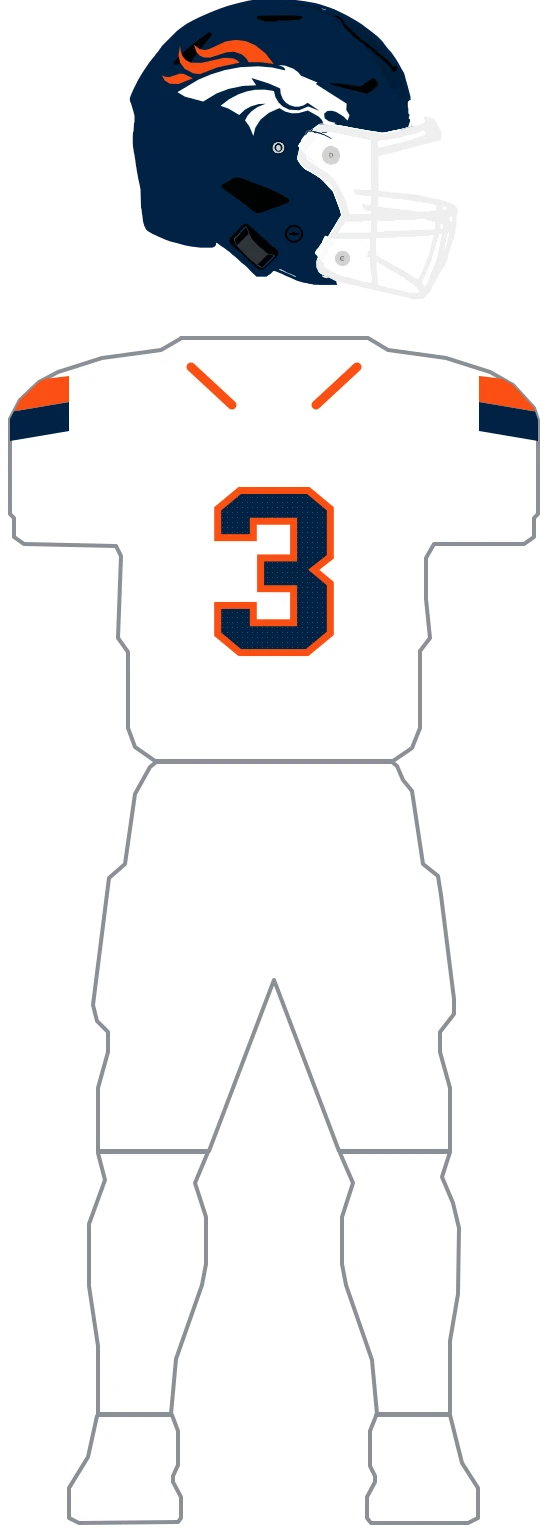
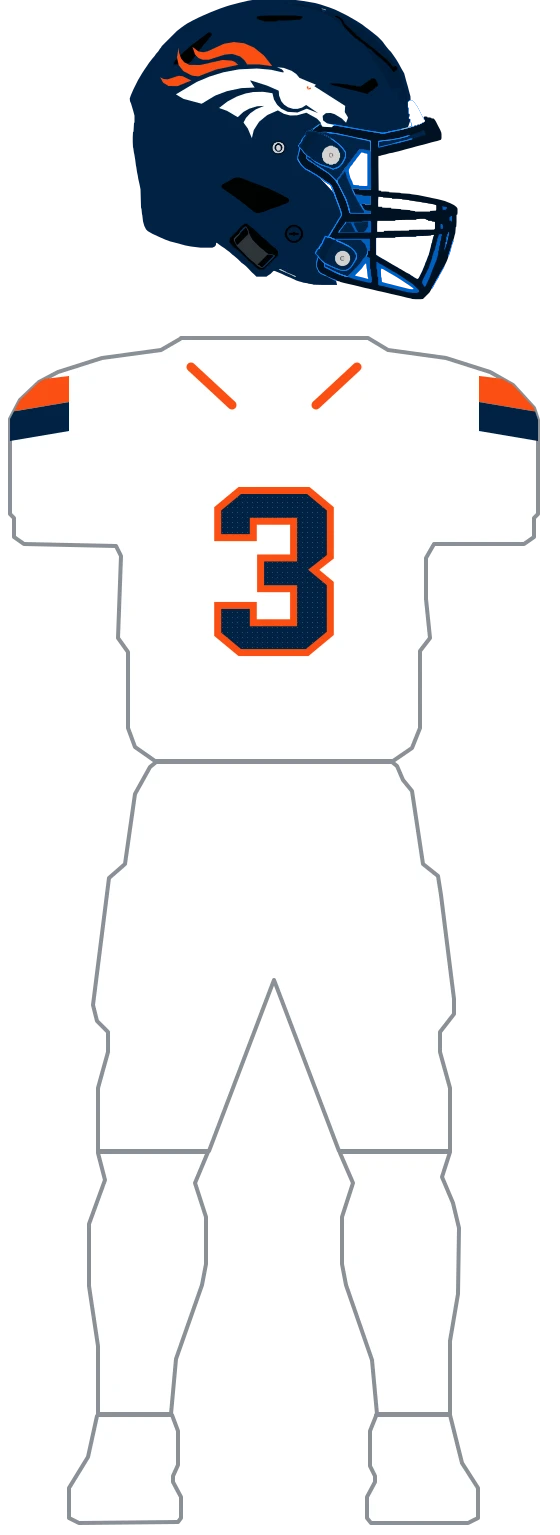
fix(uniforms): correct Broncos helmet details

Changed region(s): [[0.2732, 0.0, 0.8196, 0.2143]]

diff --git a/lib/uniforms/teams/broncos.ts b/lib/uniforms/teams/broncos.ts
@@ -24,9 +24,11 @@ export const BRONCOS_WHITE = '#FFFFFF';
 //   - The "D" is a keyline case: white traced as the union of white AND orange, with the orange "D"
 //     painted over it. The white bucking horse inside survives for free.
 export const BRONCOS_DECAL_MANE_PATH =
-  'M349.3,147.6 L371.2,150.2 L390.5,158.7 L410.3,174.5 L427.0,195.9 L400.4,192.5 L376.8,192.5 L371.6,184.3 L363.1,176.7 L347.2,171.5 L332.2,172.8 L300.0,183.1 L288.0,183.1 L279.4,179.6 L272.5,172.4 L267.4,157.4 L279.4,166.4 L289.3,168.1 L298.3,166.0 L330.4,151.0 L348.9,148.0 Z M239.5,158.7 L240.8,169.8 L244.6,180.5 L251.1,188.2 L260.9,193.3 L282.4,193.7 L327.9,183.5 L345.9,184.8 L352.3,187.3 L358.8,193.3 L314.6,202.7 L279.0,216.4 L266.1,214.7 L248.9,205.7 L239.9,193.7 L236.5,178.8 L239.5,159.1 Z M238.6,215.1 L247.6,216.0 L265.2,224.5 L236.9,236.0 L219.3,235.6 L208.6,228.8 L203.0,218.1 L209.4,221.5 L217.6,222.4 L238.2,215.5 Z M497.4,236.0 L499.5,236.9 L499.1,241.2 L502.9,238.6 L504.7,239.5 L503.4,242.0 L498.2,242.5 L496.1,238.6 L496.9,236.5 Z';
+  'M346.3,152.0 L368.2,154.6 L387.5,163.1 L407.3,178.9 L424.0,200.3 L397.4,196.9 L373.8,196.9 L368.6,188.7 L360.1,181.1 L344.2,175.9 L329.2,177.2 L297.0,187.5 L285.0,187.5 L276.4,184.0 L269.5,176.8 L264.4,161.8 L276.4,170.8 L286.3,172.5 L295.3,170.4 L327.4,155.4 L345.9,152.4 Z M236.5,163.1 L237.8,174.2 L241.6,184.9 L248.1,192.6 L257.9,197.7 L279.4,198.1 L324.9,187.9 L342.9,189.2 L349.3,191.7 L355.8,197.7 L311.6,207.1 L276.0,220.8 L263.1,219.1 L245.9,210.1 L236.9,198.1 L233.5,183.2 L236.5,163.5 Z M235.6,219.5 L244.6,220.4 L262.2,228.9 L233.9,240.4 L216.3,240.0 L205.6,233.2 L200.0,222.5 L206.4,225.9 L214.6,226.8 L235.2,219.9 Z';
+export const BRONCOS_DECAL_EYE_PATH =
+  'M494.4,240.4 L496.5,241.3 L496.1,245.6 L499.9,243.0 L501.7,243.9 L500.4,246.4 L495.2,246.9 L493.1,243.0 L493.9,240.9 Z';
 export const BRONCOS_DECAL_HORSE_PATH =
-  'M436.0,198.0 L449.7,199.3 L466.0,205.3 L475.5,212.1 L481.5,219.4 L514.5,233.1 L511.1,236.0 L572.9,275.4 L572.0,287.7 L578.5,298.4 L577.6,301.4 L574.6,309.1 L566.0,300.6 L551.9,292.0 L543.7,289.5 L534.3,289.9 L527.8,295.4 L528.7,304.4 L536.8,310.4 L550.6,313.8 L545.9,318.1 L529.6,317.2 L526.5,316.4 L523.5,308.3 L516.7,301.0 L495.2,289.0 L476.8,294.2 L463.0,294.6 L450.2,291.2 L438.2,284.3 L417.1,293.7 L400.8,307.0 L390.1,323.6 L386.2,339.9 L378.1,320.6 L369.5,308.7 L374.6,299.3 L382.8,290.3 L394.4,282.2 L410.7,275.4 L396.5,276.2 L381.1,280.9 L369.5,287.3 L357.9,298.0 L336.5,285.2 L320.6,279.6 L337.7,266.4 L356.2,256.6 L373.4,250.6 L389.2,247.6 L408.5,247.2 L427.4,250.1 L430.4,262.5 L436.9,273.2 L445.0,280.9 L457.9,287.3 L477.6,288.6 L496.1,280.9 L518.8,289.9 L494.8,273.6 L486.6,278.8 L477.6,281.3 L468.6,281.3 L458.7,278.3 L450.6,272.8 L445.0,266.0 L440.7,254.8 L439.9,245.0 L416.7,234.8 L384.1,224.5 L382.8,224.9 L391.8,238.6 L364.8,239.9 L336.5,245.9 L312.9,254.8 L285.8,271.1 L249.3,261.3 L234.3,252.3 L275.9,227.5 L301.3,216.8 L328.7,208.3 L360.5,202.3 L396.5,200.6 L424.4,203.1 L449.3,208.7 L449.7,206.1 L446.3,202.3 L436.4,198.0 Z';
+  'M433.0,202.4 L446.7,203.7 L463.0,209.7 L472.5,216.5 L478.5,223.8 L511.5,237.5 L508.1,240.4 L569.9,279.8 L569.0,292.1 L575.5,302.8 L574.6,305.8 L571.6,313.5 L563.0,305.0 L548.9,296.4 L540.7,293.9 L531.3,294.3 L524.8,299.8 L525.7,308.8 L533.8,314.8 L547.6,318.2 L542.9,322.5 L526.6,321.6 L523.5,320.8 L520.5,312.7 L513.7,305.4 L492.2,293.4 L473.8,298.6 L460.0,299.0 L447.2,295.6 L435.2,288.7 L414.1,298.1 L397.8,311.4 L387.1,328.0 L383.2,344.3 L375.1,325.0 L366.5,313.1 L371.6,303.7 L379.8,294.7 L391.4,286.6 L407.7,279.8 L393.5,280.6 L378.1,285.3 L366.5,291.7 L354.9,302.4 L333.5,289.6 L317.6,284.0 L334.7,270.8 L353.2,261.0 L370.4,255.0 L386.2,252.0 L405.5,251.6 L424.4,254.5 L427.4,266.9 L433.9,277.6 L442.0,285.3 L454.9,291.7 L474.6,293.0 L493.1,285.3 L515.8,294.3 L491.8,278.0 L483.6,283.2 L474.6,285.7 L465.6,285.7 L455.7,282.7 L447.6,277.2 L442.0,270.4 L437.7,259.2 L436.9,249.4 L413.7,239.2 L381.1,228.9 L379.8,229.3 L388.8,243.0 L361.8,244.3 L333.5,250.3 L309.9,259.2 L282.8,275.5 L246.3,265.7 L231.3,256.7 L272.9,231.9 L298.3,221.2 L325.7,212.7 L357.5,206.7 L393.5,205.0 L421.4,207.5 L446.3,213.1 L446.7,210.5 L443.3,206.7 L433.4,202.4 Z';
 export const BRONCOS_CRUSH_DECAL_KEYLINE_PATH =
   'M329.2,147.6 L427.1,149.5 L332.9,149.5 L326.7,155.1 L326.7,176.9 L328.6,148.3 Z M334.2,152.6 L433.9,153.2 L458.1,160.1 L483.5,180.6 L496.5,204.2 L495.9,219.1 L492.8,204.2 L487.2,212.3 L475.4,212.3 L474.2,205.4 L467.4,205.4 L446.3,188.0 L432.7,182.4 L428.4,168.2 L399.2,168.2 L397.4,175.0 L382.5,175.0 L381.3,179.3 L388.7,181.8 L372.6,183.7 L373.8,214.8 L368.3,212.9 L365.8,216.6 L373.2,231.5 L382.5,234.0 L378.2,240.9 L382.5,258.9 L382.5,294.3 L440.1,297.4 L454.4,288.1 L460.0,296.2 L466.8,296.2 L466.8,299.9 L458.7,301.8 L459.3,317.9 L474.8,311.1 L489.7,290.6 L486.0,282.5 L480.4,296.2 L481.6,258.3 L467.4,248.3 L466.1,229.0 L474.8,227.2 L468.0,232.8 L485.4,234.0 L483.5,238.4 L491.6,243.3 L491.6,278.8 L495.9,274.4 L497.7,237.7 L496.5,278.1 L475.4,312.3 L457.5,324.1 L438.9,327.9 L332.3,327.2 L331.1,298.0 L348.4,292.4 L348.4,191.8 L344.1,184.9 L331.7,181.8 L333.6,153.2 Z M405.4,178.1 L412.2,179.3 L404.2,186.2 L411.0,190.5 L420.3,179.3 L421.5,193.6 L436.4,204.2 L435.8,207.3 L424.0,207.3 L412.2,199.8 L409.1,209.2 L426.5,228.4 L424.0,237.7 L440.1,246.4 L442.6,261.4 L448.8,263.8 L462.4,256.4 L471.7,261.4 L471.1,268.8 L464.9,261.4 L455.6,263.2 L440.7,276.3 L433.9,292.4 L394.9,292.4 L394.9,278.8 L399.2,271.9 L394.9,267.0 L393.7,247.1 L388.1,242.1 L395.5,235.3 L397.4,244.6 L406.0,237.7 L406.7,230.3 L389.9,215.4 L394.9,209.8 L402.9,214.8 L404.8,208.5 L399.9,200.5 L386.2,202.3 L384.4,197.4 L393.7,193.6 L388.1,184.9 L398.0,187.4 L404.8,178.7 Z M500.2,206.1 L502.1,236.5 L495.9,230.3 L473.6,223.5 L481.6,221.0 L495.9,224.7 L502.1,218.5 L500.2,206.7 Z';
 export const BRONCOS_CRUSH_DECAL_D_PATH =

diff --git a/lib/uniforms/teams/broncos.parts.ts b/lib/uniforms/teams/broncos.parts.ts
@@ -23,6 +23,7 @@ import {
   BRONCOS_CRUSH_BAND_TOP_LEFT,
   BRONCOS_CRUSH_BAND_TOP_RIGHT,
   BRONCOS_CRUSH_DECAL_D_PATH,
+  BRONCOS_DECAL_EYE_PATH,
   BRONCOS_CRUSH_DECAL_KEYLINE_PATH,
   BRONCOS_DECAL_HORSE_PATH,
   BRONCOS_DECAL_MANE_PATH,
@@ -85,6 +86,7 @@ function horseDecal(): PartLayer[] {
   return [
     fill('broncos-decal-under', 'helmet', BRONCOS_DECAL_MANE_PATH, 'orange'),
     fill('broncos-decal-over', 'helmet', BRONCOS_DECAL_HORSE_PATH, 'white'),
+    fill('broncos-decal-eye', 'helmet', BRONCOS_DECAL_EYE_PATH, 'orange'),
   ];
 }
 
@@ -98,11 +100,11 @@ function crushDecal(): PartLayer[] {
 
 // The modern navy shell with the horse decal — one object, shared by home, away and orange-alt.
 //
-// White cage. The modern navy shell wears a white facemask (named sources; also the classic
-// navy-helmet era). The white cage reads cleanly against the navy shell.
+// The current-season GUD helmet composite shows a navy facemask on every modern kit; the
+// Orange Crush reference below is the exception and retains its light cage.
 const HELMET_NAVY_HORSE: UniformPart = {
   base: 'navy',
-  facemask: 'white',
+  facemask: 'navy',
   layers: horseDecal(),
 };
 

diff --git a/scripts/uniform-draw/broncos_horse.py b/scripts/uniform-draw/broncos_horse.py
@@ -30,7 +30,7 @@ from drawkit import Box, components, main, mask, trace  # noqa: E402
 
 REF = Path.home() / 'Documents/GitHubProjects/nfl-uniform-refs/broncos/broncos-mark.svg'
 MODULE = Path(__file__).resolve().parents[2] / 'lib' / 'uniforms' / 'teams' / 'broncos.ts'
-BOX = Box(203.0, 147.6, 375.9, 192.7)
+BOX = Box(200.0, 152.0, 375.9, 192.7)
 MIN_REGION = 100
 EPS = 3.0
 
@@ -84,8 +84,15 @@ def shared_masks():
 
 def build():
     orange_mask, white_mask, w, h = shared_masks()
+    orange_regions = components(orange_mask, w, h, MIN_REGION)
+    mane_cells = {cell for region in orange_regions[:3] for cell in region}
+    eye_cells = set(orange_regions[3])
+    to_mask = lambda cells: [
+        [1 if (x, y) in cells else 0 for x in range(w)] for y in range(h)
+    ]
     return {
-        'BRONCOS_DECAL_MANE_PATH': trace(orange_mask, w, h, BOX, eps=EPS, minsize=MIN_REGION),
+        'BRONCOS_DECAL_MANE_PATH': trace(to_mask(mane_cells), w, h, BOX, eps=EPS, minsize=MIN_REGION),
+        'BRONCOS_DECAL_EYE_PATH': trace(to_mask(eye_cells), w, h, BOX, eps=EPS, minsize=MIN_REGION),
         'BRONCOS_DECAL_HORSE_PATH': trace(white_mask, w, h, BOX, eps=EPS, minsize=MIN_REGION),
     }
 
